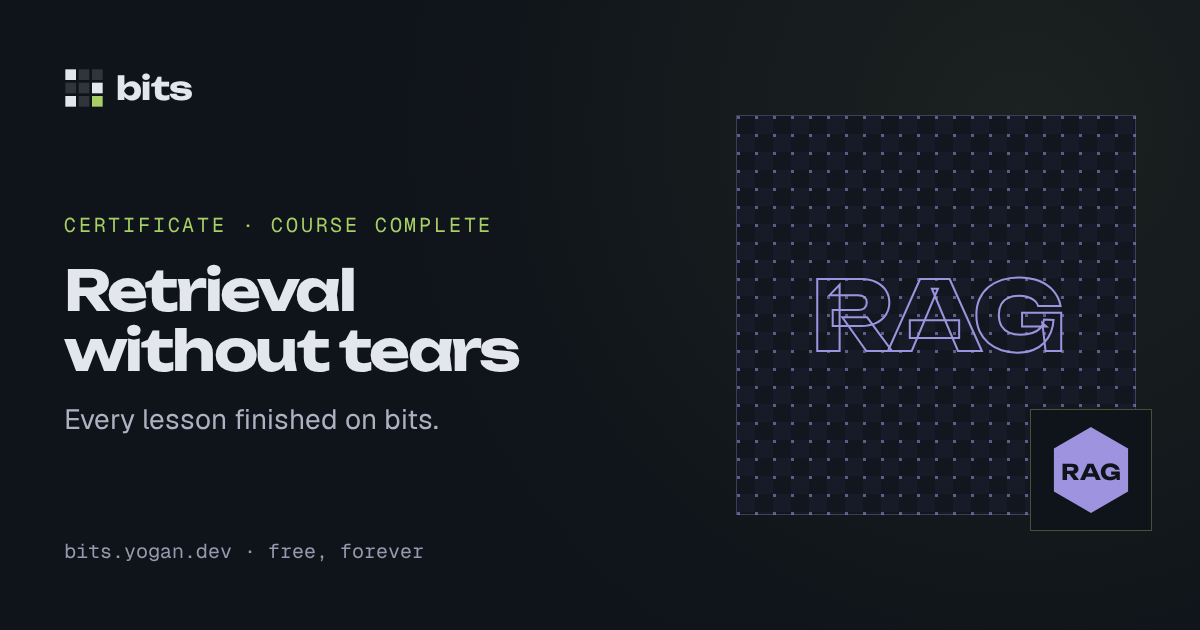
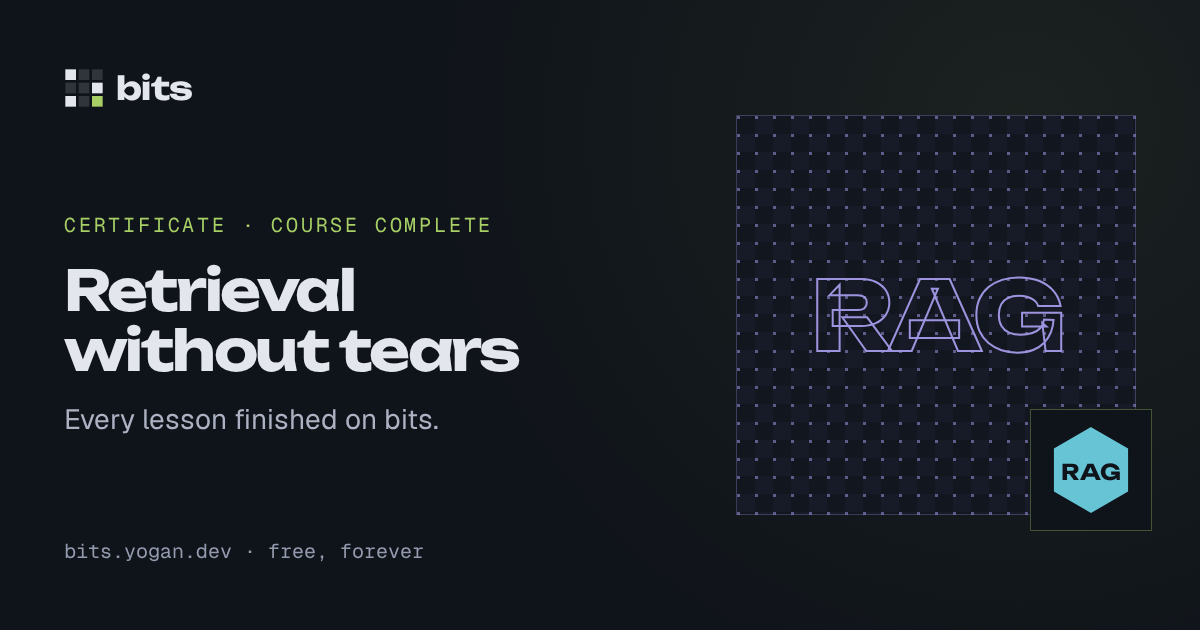
Course E: coach rubrics to 94% agreement, og cards for retrieval
just-paste-it: examples answer the reference, conditional rubric, grounded flags.
cite-the-passages: citation rubric names claims from the passages.
draft-test-questions: tighter example; 'answerable' is advice (should).

Changed region(s): [[0.8633, 0.6635, 0.9558, 0.8143]]

diff --git a/apps/web/app/ui/og-cards.generated.ts b/apps/web/app/ui/og-cards.generated.ts
@@ -14,8 +14,8 @@ export const ogCards: Record<string, string> = {
   'certificate-give-your-model-tools': '335f64fccc',
   'course-prompting-that-works': '033f861383',
   'certificate-prompting-that-works': '65b4399a94',
-  'course-retrieval-without-tears': '65c977900e',
-  'certificate-retrieval-without-tears': 'b7bd47af4c',
+  'course-retrieval-without-tears': '0725196551',
+  'certificate-retrieval-without-tears': '0b3d7425cf',
   'course-ship-an-agent-to-the-edge': '23a1fc9555',
   'certificate-ship-an-agent-to-the-edge': '114e3c2d37',
   'course-tokens-and-temperature': 'a63a3ab26e',

diff --git a/content/courses/retrieval-without-tears/08-measure-it.md b/content/courses/retrieval-without-tears/08-measure-it.md
@@ -75,14 +75,14 @@ Get Claude to draft retrieval test questions
 - check "Includes the passage" /30 days/i
 - expect "Writes questions" match /\?/
 - rubric "Questions sound like a customer, not reworded lines from the passage" must
-- rubric "The passage answers every question" must
+- rubric "Every question is about something the passage covers" should grounded
 - rubric "Questions cover different facts: how long, what's covered, and the deadline" should
 - hint "A test that reuses the passage's own words is too easy for search. Who asks these questions, and how do they talk?"
 - hint "Ask for questions the passage answers, and say how many. A question it can't answer tests something else."
 - hint "Give the passage, ask for five questions a customer might ask that it answers, and say to use everyday words, not the passage's."
-- reference "Here is a passage from our warranty guide:\n\"E-bike batteries have a 2-year warranty from delivery, covering capacity below 70%. Claims must be filed within 30 days of noticing the fault.\"\n\nWrite 5 questions a customer might ask that this passage answers. Use the words a customer would use, not the passage's wording, and cover different facts in it. One question per line."
+- reference "Here is a passage from our warranty guide:\n\"E-bike batteries have a 2-year warranty from delivery, covering capacity below 70%. Claims must be filed within 30 days of noticing the fault.\"\n\nWrite 5 questions a customer might ask that this passage answers. Use the words a customer would use, not the passage's wording, and cover different facts in it. Every question must be one the passage fully answers. One question per line."
 - run temperature=[1.0]
-- example T=1.0 "1. My e-bike battery doesn't hold a charge like it used to. Is that covered?\n2. How long is the battery guaranteed for?\n3. I bought my bike last year and the range has dropped a lot. Can I get a new battery?\n4. Is there a deadline to report a battery problem?\n5. What counts as a faulty battery?"
+- example T=1.0 "1. How long is my e-bike battery under warranty?\n2. My battery's capacity has dropped a lot. How bad does it have to be before I can claim?\n3. Does the warranty start from the day I ordered or the day the bike was delivered?\n4. I noticed a problem with my battery last week. Is there a deadline to claim?\n5. My battery is three years old. Is it still covered?"
 - success "Real-sounding questions make an honest test." next="Next: the scorer →"
 :::
 

diff --git a/content/courses/retrieval-without-tears/01-paste-it-or-search-it.md b/content/courses/retrieval-without-tears/01-paste-it-or-search-it.md
@@ -97,16 +97,16 @@ Answer a question from a pasted policy, and nothing else
 - check "Asks a question" /\?/
 - expect "Keeps the answer short" words<=120
 - rubric "Every claim in the answer comes from the policy text" must grounded
-- rubric "Says plainly when the policy doesn't cover the question, instead of guessing" must
-- rubric "Answers the question that was asked" should
+- rubric "Answers the question from the policy, or says plainly that the policy doesn't cover it" must grounded=false
+- rubric "If part of the question isn't in the policy, it says so instead of guessing" should
 - hint "Claude will happily fill gaps from general knowledge. Does your prompt tell it where its answer may come from?"
 - hint "Some questions aren't in the policy at all. What should Claude do then? Say so in the prompt."
 - hint "Policy first, then one line limiting Claude to it, then the question, then what to say if the policy doesn't answer it."
 - reference "Orbit Bikes returns policy: You can return any bike within 30 days of delivery for a full refund, if it has under 50 km on the odometer. E-bike batteries have a separate 2-year warranty. Refunds go back to the original payment method within 5 business days.\n\nUsing only the policy above, answer: I got my bike 40 days ago and have ridden 20 km. Can I return it?\nIf the policy doesn't say, tell me it doesn't instead of guessing."
 - run temperature=[1.0]
 - example T=1.0 "No. The policy only allows returns within 30 days of delivery, so 40 days is outside the window."
-- example T=1.0 "The policy doesn't say anything about shipping times, so I can't answer that from it."
-- example T=1.0 "Yes, as long as it's within 30 days of delivery and has under 50 km on the odometer. Your refund goes back to your original payment method within 5 business days."
+- example T=1.0 "No. You're under the 50 km limit, but the policy only allows returns within 30 days of delivery, and it's been 40."
+- example T=1.0 "Not under this policy: returns must be within 30 days of delivery, so at 40 days the window has closed."
 - success "Small corpus, no search needed. Next: what to do when it won't fit." next="Next: ingest with a Workflow →"
 :::
 

diff --git a/content/courses/retrieval-without-tears/07-rerank-then-answer-with-sources.md b/content/courses/retrieval-without-tears/07-rerank-then-answer-with-sources.md
@@ -125,7 +125,7 @@ Answer from numbered passages, cite them, and admit the gap
 - check "Asks for citations" /\bcite|citation|\bsources?\b|reference|passage numbers?|in brackets/i
 - expect "Cites the passages by number" cites 1-3
 - rubric "Says the passages don't cover shipping to Canada" must evidence
-- rubric "Each claim cites the passage it comes from" must
+- rubric "Each claim taken from the passages cites the passage number it comes from" must grounded=false
 - rubric "Answers whether the battery can be claimed" should
 - hint "Claude can only cite what it can point to. Are the passages numbered in your prompt, and have you asked for those numbers?"
 - hint "Half of the question isn't in the passages. What should Claude do with that half?"
